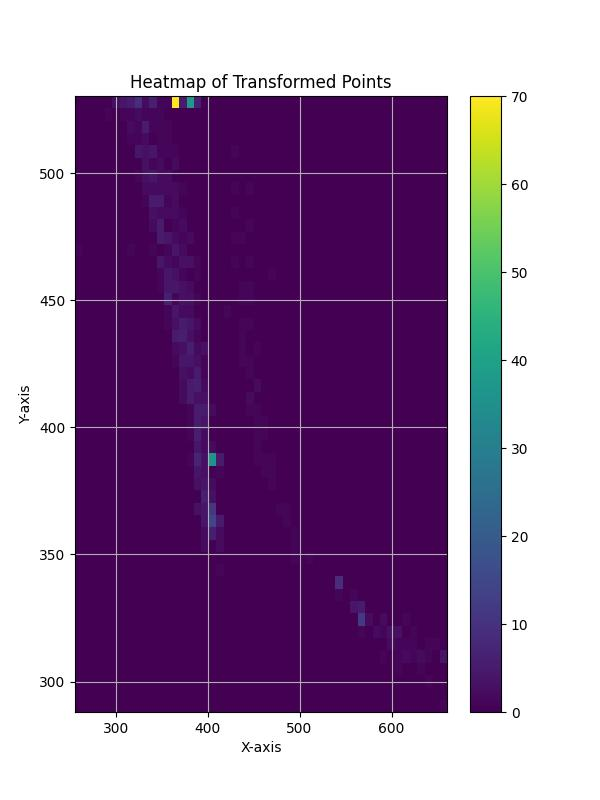
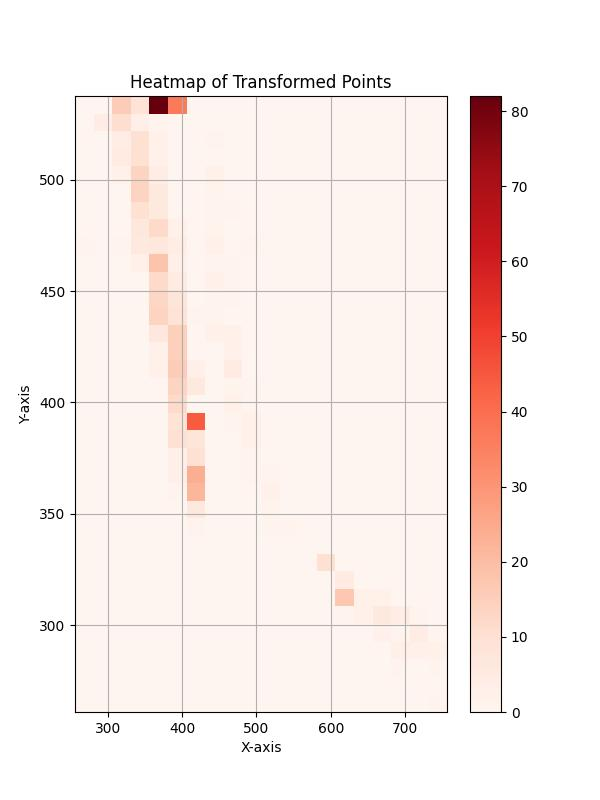
Pedestrian mapping set
## Description ##

These files include the 3 scripts, and a .zip of the folders you need to run pedestrian detection.

Scripts:
1. video_to_images.py       (imports a video, and exports individual images)
2. homography_set.py       (sets the homography transformation matrix)
3. detect_and_map.py       (detects pedestrians in all images, and creates a heatmap of their transformed points)

Folders:
1. detections_data       (a .csv file of the detections from the 'detect_and_map.py' will be exported to here)
2. input_images           (the source image ('video_image') and destination image ('satellite_image') should be put here for the 'homography_set.py' script to use)
3. input_video             (the source video should be put here for the 'video_to_images.py' script to use)
4. output_images        (the homography point images (from the 'homography_set.py' script), and heat maps (from 'detect_and_map.py' script) will be exported to here)
5. video_frames           (the individual frames extracted from the video by the 'video_to_images.py' script will be exported here)
6. Yolo-Weights          (the Yolo-Weights files that are downloaded when you install )

## Instructions ##

1. Create a folder for your project (you can call it anything, e.g. "pedestrian_mapping")
2. Unzip the pedestrian_mapping_folders.zip and put all those individual folders in your project folder.
3. Put the three scripts inside the project folder.
[…]

diff --git a/detect_and_map_03.py b/detect_and_map_03.py
@@ -147,7 +147,7 @@ plt.scatter(filtered_data['x_center'], filtered_data['ymin'], alpha=0.6, cmap='v
 # plt.colorbar()  # Add colorbar
 plt.xlabel('X-axis')
 plt.ylabel('Y-axis')
-plt.title('Heatmap of Center Points (untransformed)')
+plt.title('Scatter-plot of Center Points (untransformed)')
 plt.grid(True)
 plt.savefig('output_images/center_point_plot.jpg')
 plt.show()
@@ -160,7 +160,7 @@ plt.xlabel('X-axis')
 plt.ylabel('Y-axis')
 # plt.xlim(-1000, 1000)
 # plt.ylim(-10000, 10000)
-plt.title('Heatmap of Transformed Points')
+plt.title('Scatter-plot of Transformed Points')
 plt.grid(True)
 plt.savefig('output_images/transformed_points_plot.jpg')
 plt.show()
@@ -169,7 +169,7 @@ plt.show()
 # 03_HEATMAP
 plt.figure(figsize=(6, 8))
 # hist2d
-plt.hist2d(filtered_data['transformed_x'], filtered_data['transformed_y'], bins=50, cmap='viridis')
+plt.hist2d(filtered_data['transformed_x'], filtered_data['transformed_y'], bins=(20,35), cmap='Reds')
 
 plt.colorbar()
 plt.xlabel('X-axis')
